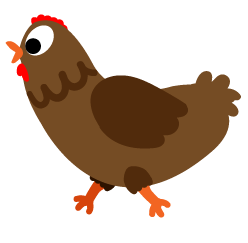
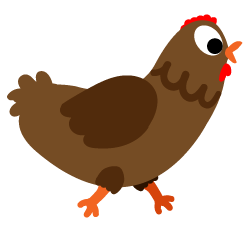
Add Npc class and externalize image paths
Introduce an Npc base class (models/npc.class.js) with walkRandomly behavior and isWalking state; refactor Chicken to extend Npc, use chickenImages, animate walking and use hitboxHeight. Move character sprite lists into path/character-imgages.js and chicken sprite lists into path/chicken-images.js, and update character.class.js to load images from characterImages. Update index.html to include the new path and npc scripts. Add world debug drawing for hitboxHeight in models/world.class.js. Also update chicken/character hitbox and animation wiring to improve asset organization and NPC behavior.

diff --git a/models/character.class.js b/models/character.class.js
@@ -2,67 +2,20 @@
  * @author Ramon Kunz
  * @description This class represents the main character in the game, extending the MovableObject class. It handles the character's animations (idle, walking, jumping, hurt, dead), movement (left, right, jump), and interactions (throwing bottles). The character's state is updated based on keyboard input and its position is updated accordingly.
  */
-
 class Character extends MovableObject {
-    IMAGES_IDLE = [
-        'img/2_character_pepe/1_idle/idle/I-1.png',
-        'img/2_character_pepe/1_idle/idle/I-2.png',
-        'img/2_character_pepe/1_idle/idle/I-3.png',
-        'img/2_character_pepe/1_idle/idle/I-4.png',
-        'img/2_character_pepe/1_idle/idle/I-5.png',
-        'img/2_character_pepe/1_idle/idle/I-6.png'
-    ];
-
-    IMAGES_WALKING = [
-        'img/2_character_pepe/2_walk/W-21.png',
-        'img/2_character_pepe/2_walk/W-22.png',
-        'img/2_character_pepe/2_walk/W-23.png',
-        'img/2_character_pepe/2_walk/W-24.png',
-        'img/2_character_pepe/2_walk/W-25.png',
-        'img/2_character_pepe/2_walk/W-26.png'
-    ];
-
-    IMAGES_JUMPING = [
-        'img/2_character_pepe/3_jump/J-31.png',
-        'img/2_character_pepe/3_jump/J-32.png',
-        'img/2_character_pepe/3_jump/J-33.png',
-        'img/2_character_pepe/3_jump/J-34.png',
-        'img/2_character_pepe/3_jump/J-35.png',
-        'img/2_character_pepe/3_jump/J-36.png',
-        'img/2_character_pepe/3_jump/J-37.png',
-        'img/2_character_pepe/3_jump/J-38.png',
-        'img/2_character_pepe/3_jump/J-39.png',
-
-    ];
-
-    IMAGES_HURT = [
-        'img/2_character_pepe/4_hurt/H-41.png',
-        'img/2_character_pepe/4_hurt/H-42.png',
-        'img/2_character_pepe/4_hurt/H-43.png'
-    ];
-
-    IMAGES_DEAD = [
-        'img/2_character_pepe/5_dead/D-51.png',
-        'img/2_character_pepe/5_dead/D-52.png',
-        'img/2_character_pepe/5_dead/D-53.png',
-        'img/2_character_pepe/5_dead/D-54.png',
-        'img/2_character_pepe/5_dead/D-55.png',
-        'img/2_character_pepe/5_dead/D-56.png',
-        'img/2_character_pepe/5_dead/D-57.png'
-    ];
-
     constructor() {
         super();
         this.x = 120;
         this.y = 270;
-        this.loadImage(this.IMAGES_IDLE[0]);
-        this.loadImages(this.IMAGES_IDLE);
-        this.loadImages(this.IMAGES_WALKING);
-        this.loadImages(this.IMAGES_JUMPING);
-        this.loadImages(this.IMAGES_HURT);
-        this.loadImages(this.IMAGES_DEAD);
+        this.loadImage(characterImages.IDLE[0]);
+        this.loadImages(characterImages.IDLE);
+        this.loadImages(characterImages.WALKING);
+        this.loadImages(characterImages.JUMPING);
+        this.loadImages(characterImages.HURT);
+        this.loadImages(characterImages.DEAD);
         this.width = 50;
         this.height = 150;
+        this.hitboxHeight = 90;
         this.animate();
         this.applyGravity();
         this.move();
@@ -122,16 +75,16 @@ class Character extends MovableObject {
     animate() {
         setInterval(() => {
             if (this.world.keyboard.RIGHT || this.world.keyboard.LEFT) {
-                let i = this.currentImage % this.IMAGES_WALKING.length;
-                this.img = this.imageCache[this.IMAGES_WALKING[i]];
+                let i = this.currentImage % characterImages.WALKING.length;
+                this.img = this.imageCache[characterImages.WALKING[i]];
                 this.currentImage++;
             } else if (this.world.keyboard.SPACE) {
-                let i = this.currentImage % this.IMAGES_JUMPING.length;
-                this.img = this.imageCache[this.IMAGES_JUMPING[i]];
+                let i = this.currentImage % characterImages.JUMPING.length;
+                this.img = this.imageCache[characterImages.JUMPING[i]];
                 this.currentImage++;
             } else {
-                let i = this.currentImage % this.IMAGES_IDLE.length;
-                this.img = this.imageCache[this.IMAGES_IDLE[i]];
+                let i = this.currentImage % characterImages.IDLE.length;
+                this.img = this.imageCache[characterImages.IDLE[i]];
                 this.currentImage++;
             }
         }, 1000 / 10);

diff --git a/path/character-imgages.js b/path/character-imgages.js
@@ -1,0 +1,43 @@
+const characterImages = {
+    "IDLE": [
+        "img/2_character_pepe/1_idle/idle/I-1.png",
+        "img/2_character_pepe/1_idle/idle/I-2.png",
+        "img/2_character_pepe/1_idle/idle/I-3.png",
+        "img/2_character_pepe/1_idle/idle/I-4.png",
+        "img/2_character_pepe/1_idle/idle/I-5.png",
+        "img/2_character_pepe/1_idle/idle/I-6.png"
+    ],
+    "WALKING": [
+        "img/2_character_pepe/2_walk/W-21.png",
+        "img/2_character_pepe/2_walk/W-22.png",
+        "img/2_character_pepe/2_walk/W-23.png",
+        "img/2_character_pepe/2_walk/W-24.png",
+        "img/2_character_pepe/2_walk/W-25.png",
+        "img/2_character_pepe/2_walk/W-26.png"
+    ],
+    "JUMPING": [
+        "img/2_character_pepe/3_jump/J-31.png",
+        "img/2_character_pepe/3_jump/J-32.png",
+        "img/2_character_pepe/3_jump/J-33.png",
+        "img/2_character_pepe/3_jump/J-34.png",
+        "img/2_character_pepe/3_jump/J-35.png",
+        "img/2_character_pepe/3_jump/J-36.png",
+        "img/2_character_pepe/3_jump/J-37.png",
+        "img/2_character_pepe/3_jump/J-38.png",
+        "img/2_character_pepe/3_jump/J-39.png"
+    ],
+    "HURT": [
+        "img/2_character_pepe/4_hurt/H-41.png",
+        "img/2_character_pepe/4_hurt/H-42.png",
+        "img/2_character_pepe/4_hurt/H-43.png"
+    ],
+    "DEAD": [
+        "img/2_character_pepe/5_dead/D-51.png",
+        "img/2_character_pepe/5_dead/D-52.png",
+        "img/2_character_pepe/5_dead/D-53.png",
+        "img/2_character_pepe/5_dead/D-54.png",
+        "img/2_character_pepe/5_dead/D-55.png",
+        "img/2_character_pepe/5_dead/D-56.png",
+        "img/2_character_pepe/5_dead/D-57.png"
+    ]
+};

diff --git a/models/npc.class.js b/models/npc.class.js
@@ -1,0 +1,31 @@
+class Npc extends MovableObject {
+    
+    constructor() {
+        super();
+        this.isWalking = false;
+    }
+
+    walkRandomly() {
+        setInterval(() => {
+            let randomDirection = Math.random() < 0.5 ? 'LEFT' : 'RIGHT';
+            let randomSteps = Math.floor(Math.random() * 20) + 10; // Random steps between 10 and 60
+            if (randomDirection === 'LEFT') {
+                for (let i = 0; i < randomSteps; i++) {
+                    setTimeout(() => {
+                        this.moveLeft();
+                    }, i * 100);
+                }
+            } else {
+                for (let i = 0; i < randomSteps; i++) {
+                    setTimeout(() => {
+                        this.moveRight();
+                    }, i * 100);
+                }
+            }
+            this.isWalking = true;
+            setTimeout(() => {
+                this.isWalking = false;
+            }, randomSteps * 100);
+        }, 1000 * 5); // Change direction every 5 seconds
+    }
+}

diff --git a/models/chicken.class.js b/models/chicken.class.js
@@ -1,10 +1,25 @@
-class Chicken extends MovableObject {
+class Chicken extends Npc {
     constructor() {
         super();
         this.x = 140 + Math.random() * 200;
         this.y = 370;
         this.loadImage('img/3_enemies_chicken/chicken_normal/1_walk/1_w.png');
+        this.loadImages(chickenImages.WALKING);
+        this.loadImages(chickenImages.DEAD);
         this.width = 50;
         this.height = 50;
+        this.hitboxHeight = this.height;
+        this.walkRandomly();
+        this.animate();
+    }
+
+    animate() {
+        setInterval(() => {
+            if (this.isWalking) {
+                let i = this.currentImage % chickenImages.WALKING.length;
+                this.img = this.imageCache[chickenImages.WALKING[i]];
+                this.currentImage++;
+            }
+        }, 1000 / 10);
     }
 }   

diff --git a/path/chicken-images.js b/path/chicken-images.js
@@ -1,0 +1,11 @@
+const chickenImages = {
+    WALKING: [
+        'img/3_enemies_chicken/chicken_normal/1_walk/1_w.png',
+        'img/3_enemies_chicken/chicken_normal/1_walk/2_w.png',
+        'img/3_enemies_chicken/chicken_normal/1_walk/3_w.png'
+    ],
+
+    DEAD: [
+        'img/3_enemies_chicken/chicken_normal/2_dead/dead.png'
+    ]
+};

diff --git a/models/world.class.js b/models/world.class.js
@@ -74,6 +74,13 @@ class World {
         this.ctx.strokeStyle = 'red';
         this.ctx.rect(object.x, object.y, object.width, object.height);
         this.ctx.stroke();
+        if (object.hitboxHeight) {
+            this.ctx.beginPath();
+            this.ctx.lineWidth = '2';
+            this.ctx.strokeStyle = 'blue';
+            this.ctx.rect(object.x, object.y + (object.height - object.hitboxHeight), object.width, object.hitboxHeight);
+            this.ctx.stroke();
+        }
         if (object.otherDirection) {
             this.ctx.restore();
         }

diff --git a/index.html b/index.html
@@ -15,7 +15,10 @@
     <script src="./models/world.class.js"></script>
     <script src="./models/movable-object.class.js"></script>
     <script src="./models/throwable-object.class.js"></script>
+    <script src="./path/character-imgages.js"></script>
     <script src="./models/character.class.js"></script>
+    <script src="./models/npc.class.js"></script>
+    <script src="./path/chicken-images.js"></script>
     <script src="./models/chicken.class.js"></script>
     <script src="./models/cloud.class.js"></script>
     <script src="./models/background-object.class.js"></script>